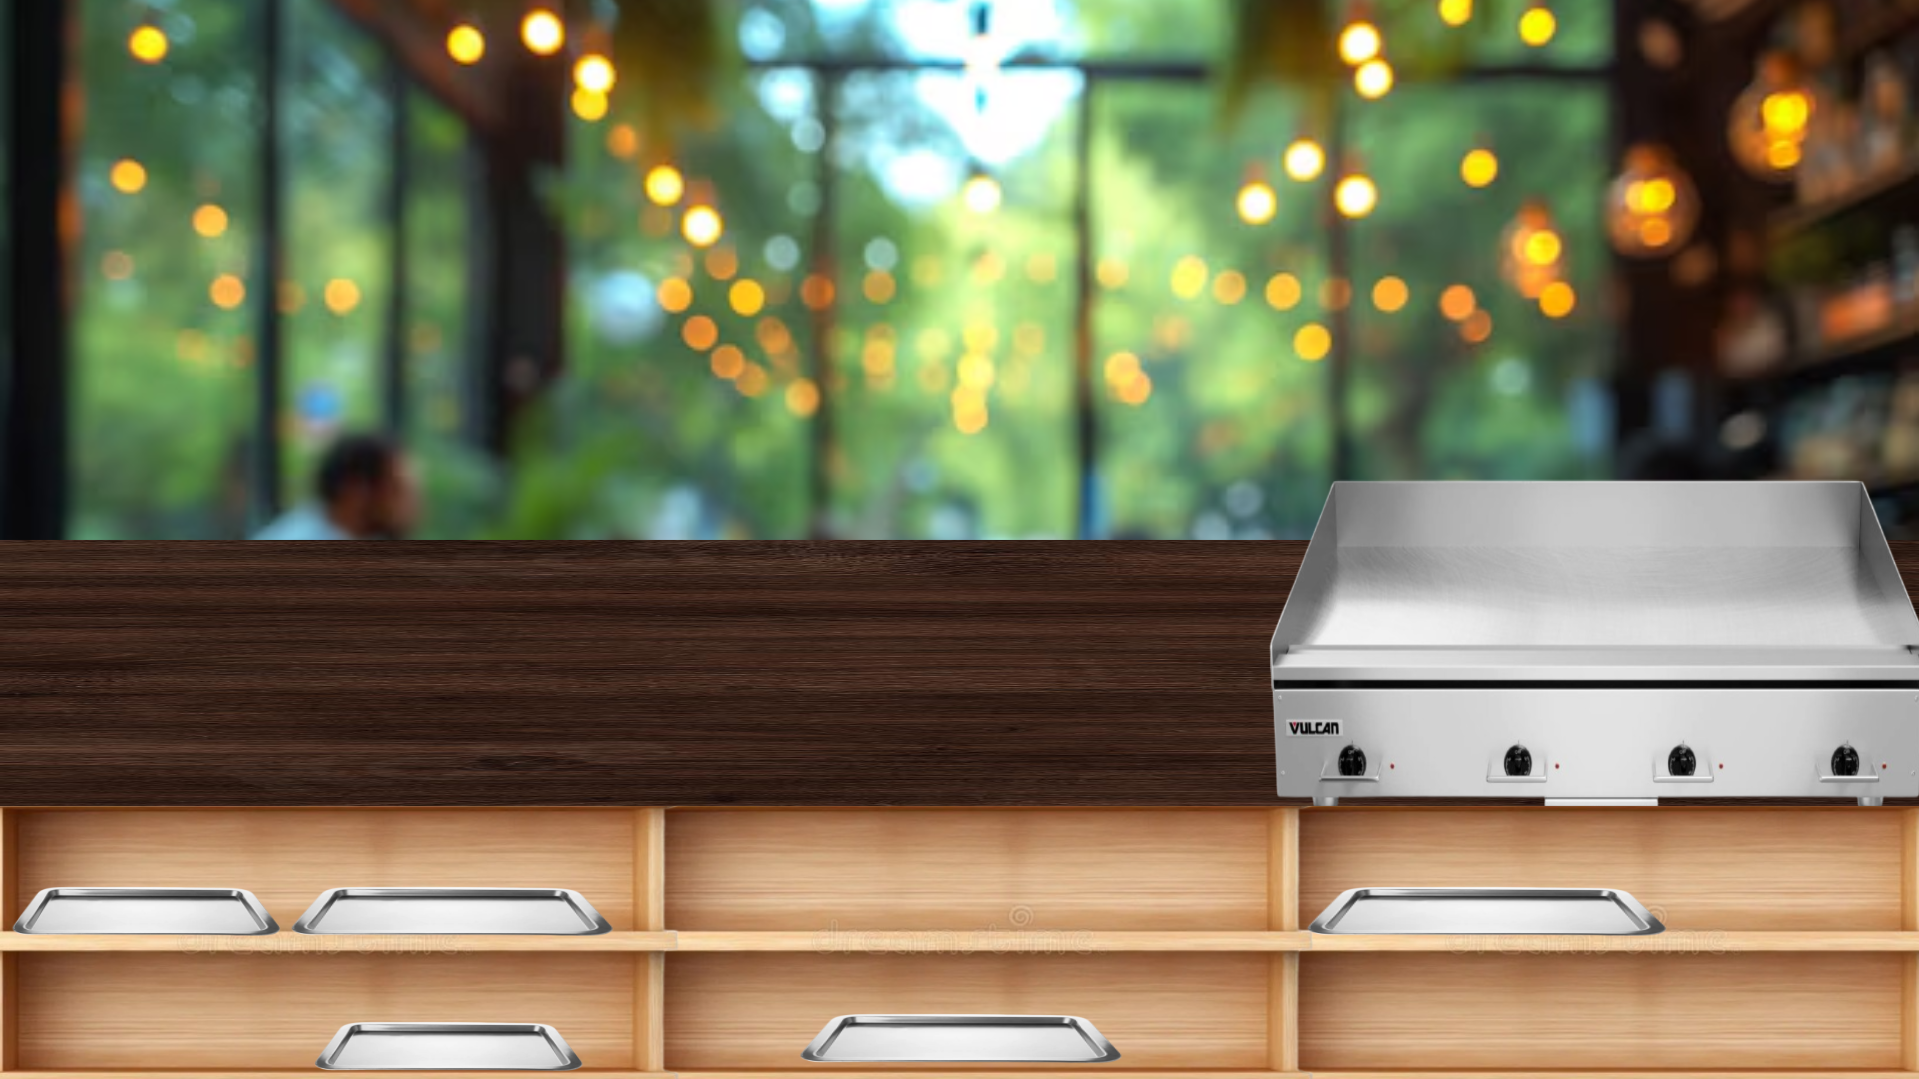
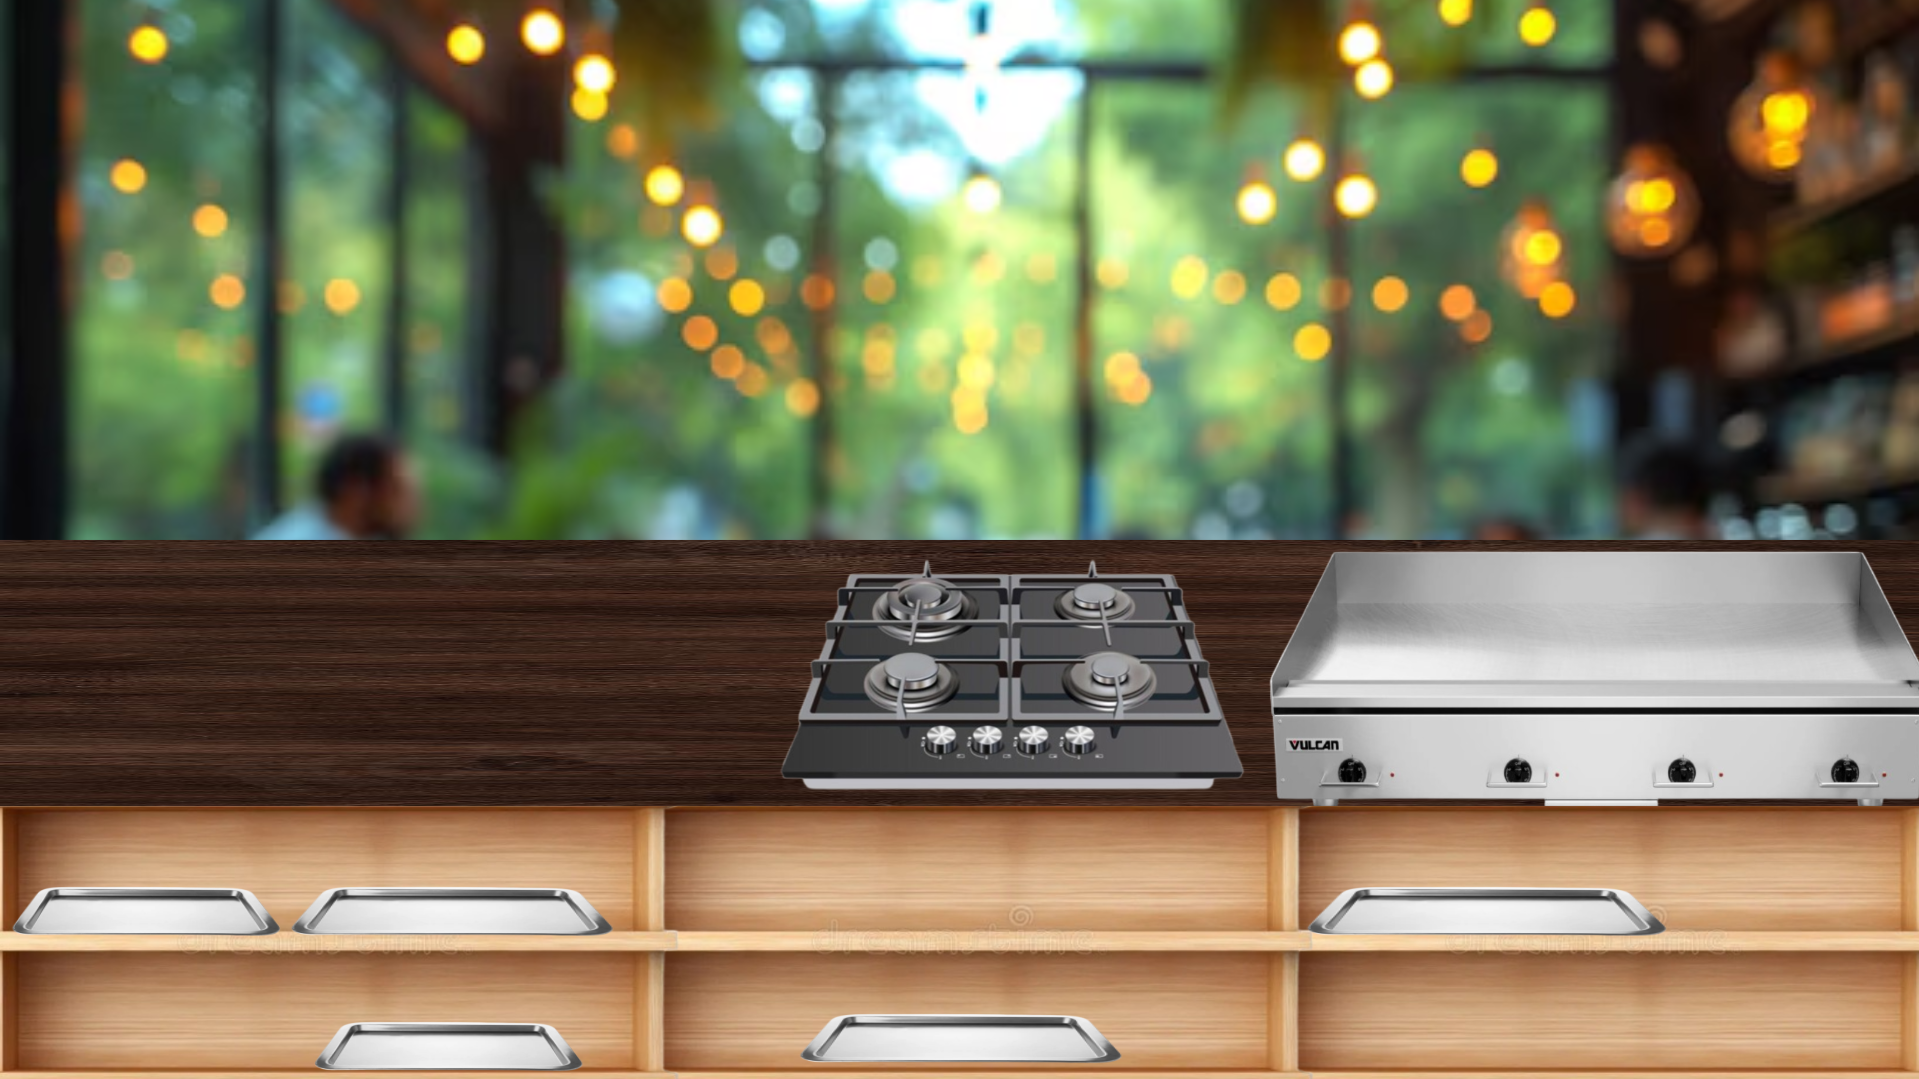
.

Changed region(s): [[0.3997, 0.4282, 1.0, 0.7646], [0.9838, 0.734, 1.0, 0.7646]]

diff --git a/final_project/src/Button.py b/final_project/src/Button.py
@@ -9,7 +9,7 @@ class Button():
         self.rect = self.image.get_rect()
         self.rect.topleft = (x, y)
         self.clicked = False
-        self.available = True
+        self.available = "None"
         screen.blit(self.image, (self.rect.x, self.rect.y))
 
     def draw(self, screen):
@@ -23,23 +23,26 @@ class Button():
             self.clicked = False
         return state
     
-    def clone(self, topleft, width, height, image, screen):
+    def new_image(self, topleft, width, height, image, screen):
         self.clone_rect = self.image.get_rect()
         self.clone_rect.topleft = topleft
         self.clone_image = pygame.image.load(image)
         self.clone_image = pygame.transform.scale(self.clone_image, (width, height))
         screen.blit(self.clone_image, (self.clone_rect.x, self.clone_rect.y))
 
-    def cook(self, data, objects, app, screen):
-        if objects[f"{app}1"].available:
-            objects[f"{app}1"].clone(objects[f"{app}1"].rect.topleft, data[f"{app}"]["size"]["width"], data[f"{app}"]["size"]["height"], data["beef"]["image"], screen)
-            objects[f"{app}1"].available = False
-        elif objects[f"{app}2"].available:
-            objects[f"{app}2"].clone(objects[f"{app}2"].rect.topleft, data[f"{app}"]["size"]["width"], data[f"{app}"]["size"]["height"], data["beef"]["image"], screen)
-            objects[f"{app}2"].available = False
-        elif objects[f"{app}3"].available:
-            objects[f"{app}3"].clone(objects[f"{app}3"].rect.topleft, data[f"{app}"]["size"]["width"], data[f"{app}"]["size"]["height"], data["beef"]["image"], screen)
-            objects[f"{app}3"].available = False
-        elif objects[f"{app}4"].available:
-            objects[f"{app}4"].clone(objects[f"{app}4"].rect.topleft, data[f"{app}"]["size"]["width"], data[f"{app}"]["size"]["height"], data["beef"]["image"], screen)
-            objects[f"{app}4"].available = False
+    def cook(self, data, objects, food, app, screen):
+        if objects[f"{app}1"].available == data["required"][food]:
+            objects[f"{app}1"].new_image(objects[f"{app}1"].rect.topleft, data[f"{app}"]["size"]["width"], data[f"{app}"]["size"]["height"], data[food]["image"], screen)
+            objects[f"{app}1"].available = f"{food}"
+        elif objects[f"{app}2"].available == data["required"][food]:
+            objects[f"{app}2"].new_image(objects[f"{app}2"].rect.topleft, data[f"{app}"]["size"]["width"], data[f"{app}"]["size"]["height"], data[food]["image"], screen)
+            objects[f"{app}2"].available = f"{food}"
+        elif objects[f"{app}3"].available == data["required"][food]:
+            objects[f"{app}3"].new_image(objects[f"{app}3"].rect.topleft, data[f"{app}"]["size"]["width"], data[f"{app}"]["size"]["height"], data[food]["image"], screen)
+            objects[f"{app}3"].available = f"{food}"
+        elif objects[f"{app}4"].available == data["required"][food]:
+            objects[f"{app}4"].new_image(objects[f"{app}4"].rect.topleft, data[f"{app}"]["size"]["width"], data[f"{app}"]["size"]["height"], data[food]["image"], screen)
+            objects[f"{app}4"].available = f"{food}"
+        
+    def plate(self, data, objects, screen):
+        pass

diff --git a/final_project/src/Controller.py b/final_project/src/Controller.py
@@ -32,6 +32,10 @@ class Controller():
 
     def kitchenloop(self):
     
+        background = pygame.image.load("assets/fp_images/background.png")
+        background = pygame.transform.scale(background, (screen_width, screen_height))
+        self.screen.blit(background, (0,0))
+
         for object in self.object_type:
             for i in range(self.data[object]["amount"]):
                 name = f"{object}{i+1}"
@@ -40,9 +44,24 @@ class Controller():
 
         while self.state == "KITCHEN":
    
-            if self.indv_object["beef1"].draw(self.screen):
-                self.indv_object["beef1"].cook(self.data, self.indv_object, "pan", self.screen)
-                print("clicked")
+            for food in self.data["pan_food"]:
+                if food == "noodles1" and self.indv_object[food].draw(self.screen):
+                    self.indv_object[food].cook(self.data, self.indv_object, "noodles", "pan", self.screen)
+                    print("clicked")
+                if food == "vegetables1" and self.indv_object[food].draw(self.screen):
+                    self.indv_object[food].cook(self.data, self.indv_object, "vegetables", "pan", self.screen)
+                    print("clicked")
+            for food in self.data["pan_food"]:
+                if food == "rice1" and self.indv_object[food].draw(self.screen):
+                    self.indv_object[food].cook(self.data, self.indv_object, "rice", "pan", self.screen)
+                    print("clicked")
+            for food in self.data["pan_food"]:
+                if food == "eggs1" and self.indv_object[food].draw(self.screen):
+                    self.indv_object[food].cook(self.data, self.indv_object, "eggs", "pan", self.screen)
+                    print("clicked")
+
+            for pan in self.data["indv_object"]:
+                pass
 
             
             
